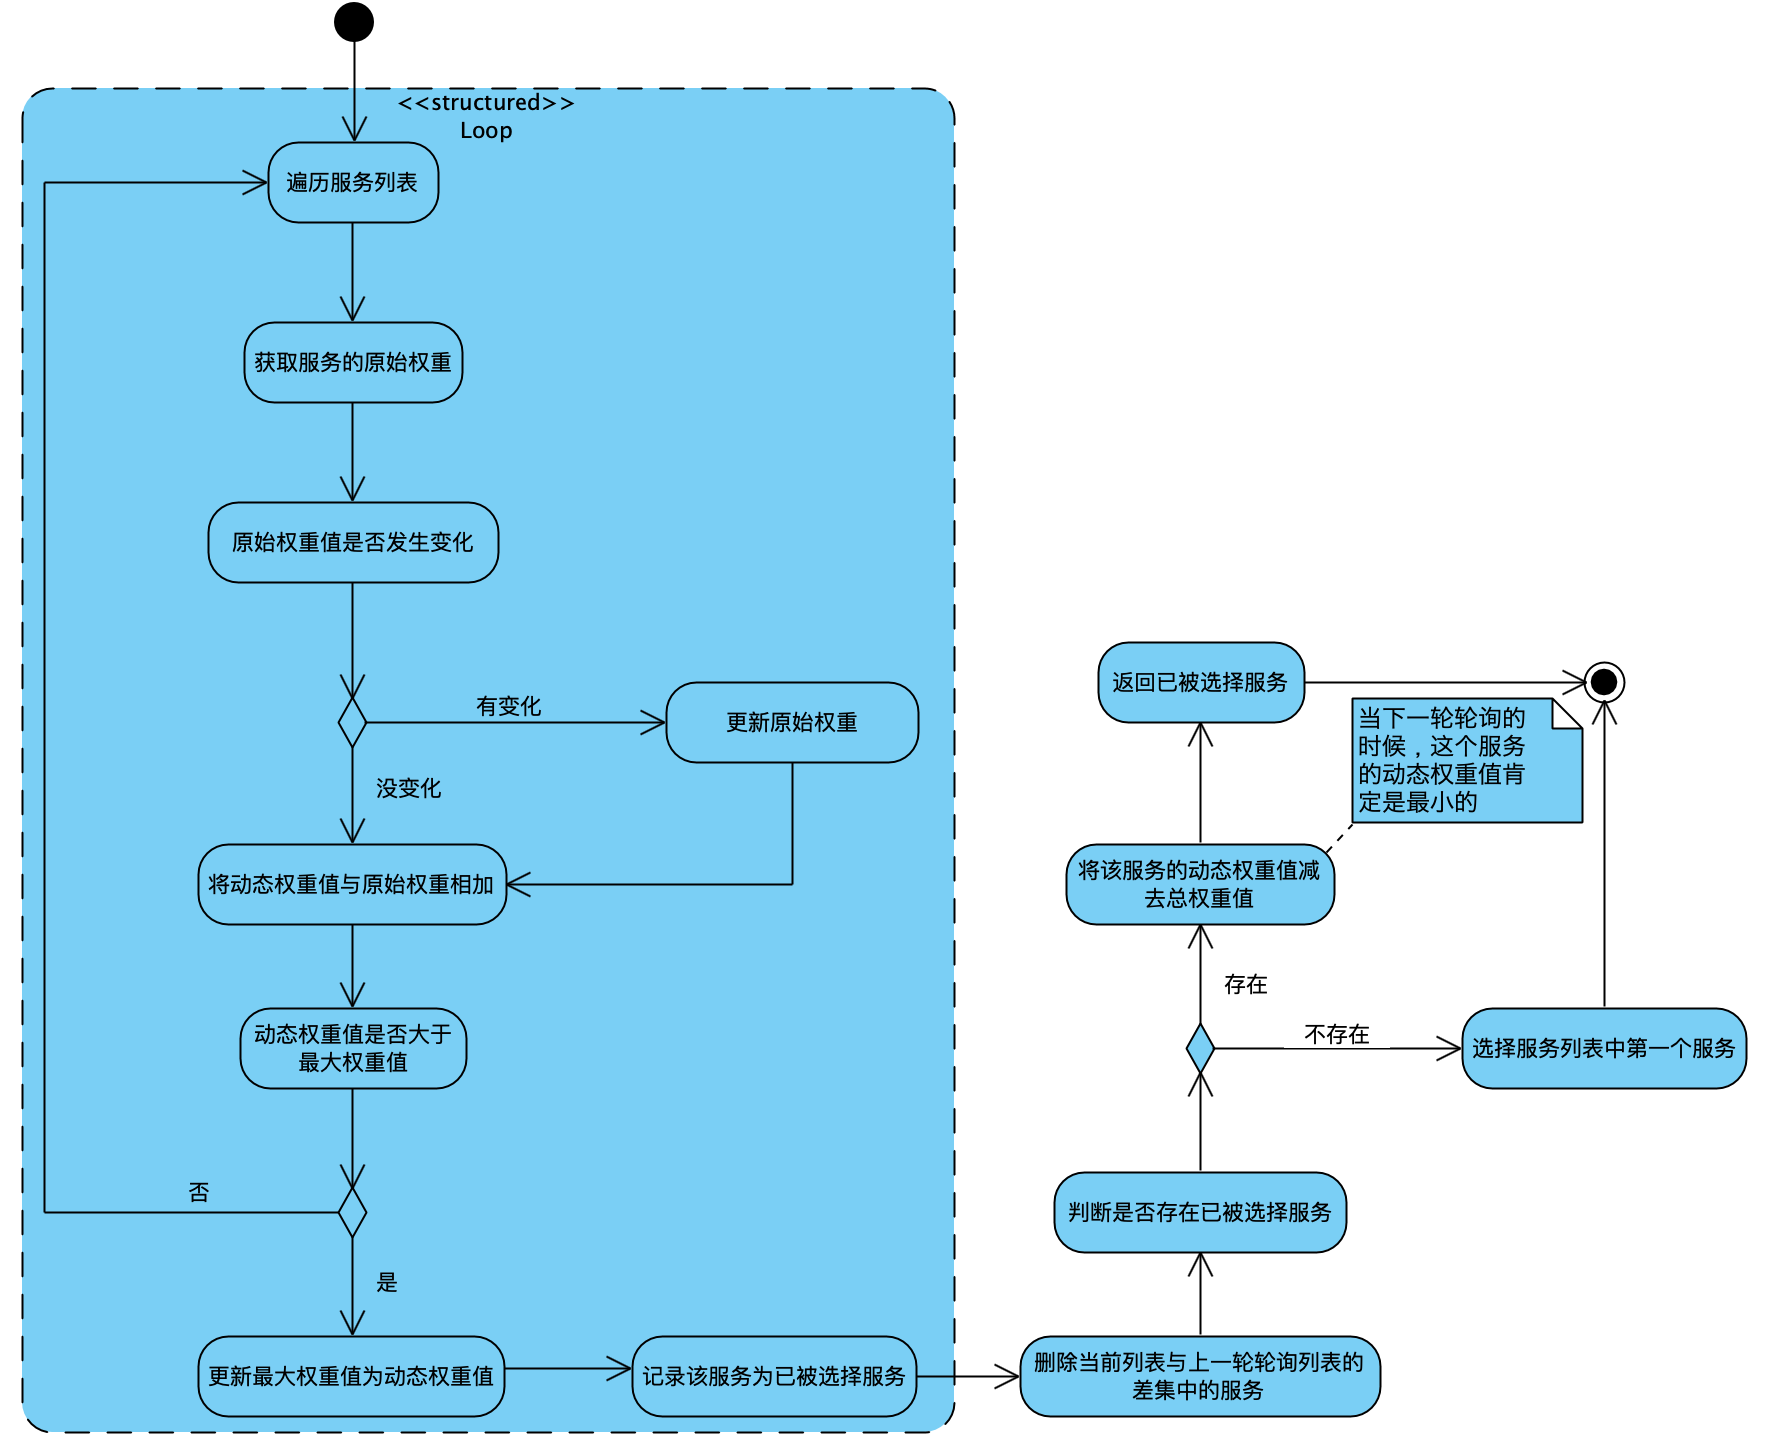
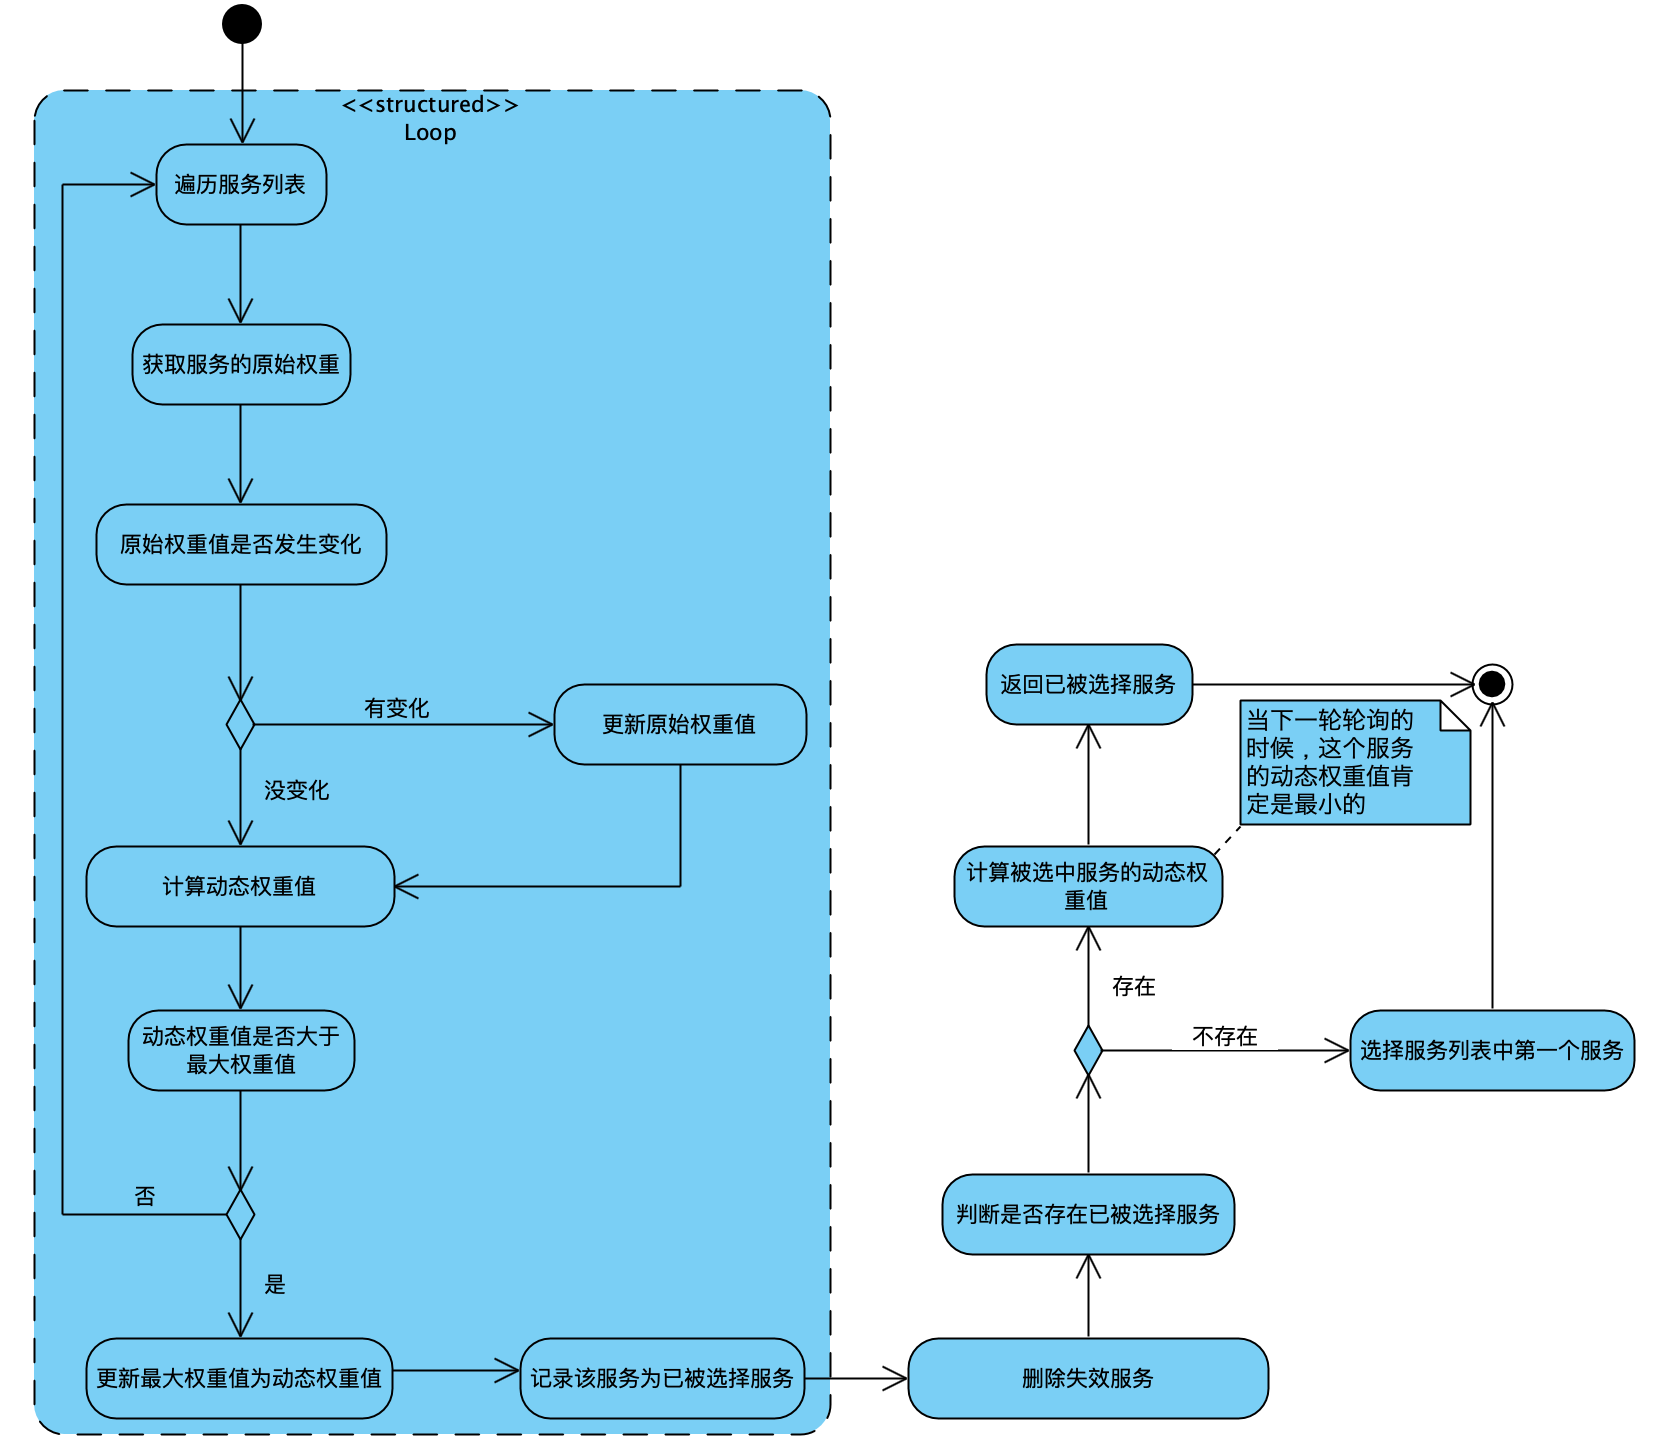
更新轮询负载均衡笔记

diff --git a/dubbo/Dubbo源码研究之负载均衡.md b/dubbo/Dubbo源码研究之负载均衡.md
@@ -4,7 +4,7 @@ Dubbo中负载均衡的类图结构如下：
 
 ![](../pictures/Dubbo_负载均衡类图.png)
 
-目前最新版本（2.7.x）中的`MockLoadBalance`还没有具体实现，我们主要关注`AbstractLoanBalance`以及其实现类就可以
+目前最新版本（2.7.x）中的`MockLoadBalance`是一个空实现，我们主要关注`AbstractLoanBalance`以及其实现类就可以
 
 **问题：** 如果对于`FailoverClusterInvoker`，在第一次失败后，重新选择第二个可调用服务，在负载均衡中计算权重的时候，如果因为临时修改权重导致负载均衡又选择了第一次调用失败的服务，这个时候怎么办？
 
@@ -42,29 +42,61 @@ i、返回取得服务
 
 Dubbo中的轮询负载均衡策略，实际上也是加权轮询负载均衡，Dubbo根据每个服务的权重值来控制轮询的先后顺序,如果权重值相等，则从列表中的第一个元素开始轮询，如果权重值不等，则从权重值最大的元素开始轮询。Dubbo的轮询算法中有几个变量：
 
-- 原始权重值 $ot$（Dubbo控制台设置的初始值）
+- 原始权重值 $ot$：Dubbo控制台设置的初始值
 
-- 动态权重值 $DT$（轮询算法中动态计算的权重值），该值的计算方法：如果当前服务在该轮轮询中没有被选中，则该值在原值的基础上加原始权重值，其如果被选中了，那么这个服务的动态权重值等于原值减去总权重值，动态权重值是决定该服务最终被选择的依据，计算公式如下：
+- 动态权重值 $dt$：轮询算法中动态变化的权重值，该值的计算方法：如果当前服务在该轮轮询中没有被选中，则该值在原值的基础上加原始权重值，其如果被选中了，那么这个服务的动态权重值等于原值减去总权重值，动态权重值是决定该服务最终被选择的依据，计算公式如下：
 
-  							$$DT[r] =\begin{cases} DT[r-1] + ot,未被选中\\ DT[r-1]-st,被选中\end{cases}$$
+  							$$dt_r =\begin{cases} dt_{r-1} + ot,未被选中\\ dt_{r-1} + ot - st,被选中\end{cases}$$
 
-  其中，$DT[r-1]$ 表示上一轮轮询后的动态权重值
+  其中，$dt_{r-1}$ 表示上一轮轮询后的动态权重值
 
-  动态权重值$DT$的区间范围为：
+  动态权重值$dt$的区间范围为：
 
-                                                          $DT \leq |st| $
+                                                          $dt \leq |st| $
 
 - 总权重值 $st$：服务列表中所有服务的原始权重值的总，计算公式如下：
 
   							$st = \sum_{i=0}^{n-1} ot[i]$
 
-- 当前最大权重值，这个值实际上就是服务列表中最大的动态权重值
+- 当前最大权重值：这个值实际上就是服务列表中最大的动态权重值
 
-- 已被选择的服务，最终的服务就是这个服务，实际上，这个值在轮询的过程中是发生变化的，该值是所有服务的动态权重值最大的那个服务
+- 已被选择的服务：最终的服务就是这个服务，实际上，这个值在轮询的过程中是发生变化的，该值是所有服务的动态权重值最大的那个服务
 
 轮询负载均衡的处理逻辑如下图所示：![](../pictures/Dubbo_轮询负载均衡流程图.png)
 
 **描述：**
 
+a、遍历服务列表
 
+b、获取服务的原始权重值
+
+c、将该服务当前的原始权重值与上一轮该服务的原始权重值做比较，如果不同，说明权重发生变化，则需要更新原始权重值
+
+d、计算动态权重值——原始权重值+上一轮轮询后的动态权重值（如果是第一轮，该值为0）
+
+e、比较动态权重值与最大权重值(该值的初始值为-2^63^)，若动态权重值小于等于最大权重值，则直接跳至步骤f，否则，更新最大权重值为动态权重值，记录该服务为已被选择服务
+
+f、将原始权重值累加
+
+g、循环执行b-f，直至轮询完整个服务列表
+
+h、删除失效服务：比对当前服务列表与上一次轮询后的服务列表，比对出差异服务，然后再计算差异服务最后一次活跃至当前的时间间隔，如果超过60s，则将该服务从服务列表中清除掉（注意，该服务列表是供下次轮询使用的列表）
+
+i、如果有被选中服务，则将该服务的动态权重减去总的原始权重，这时，这个服务的动态权重肯定是服务列表中最小的，那么下次轮询时，该服务被选中的概率将最小
+
+j、如果有被选中服务，则返回选中服务，否则，返回服务列表中的第一个元素
+
+**为什么要将加权轮询算法做的如此复杂？**
+
+加权轮询需要考虑几个方面：
+
+- 在一组具有多个服务的列表中，如何保证本次被选举到的服务，在下一次轮询的过程中，不再被选到？
+
+  Dubbo中使用了动态权重值解决了这个问题
+
+- 如何解决轮询过程中服务列表发生变化的问题，这里也用到了动态权重值，来保证新加入的服务能够在以后的轮询过程中被选中
+
+- 如何解决轮询过程中服务的权重发生变化的问题
+
+实际上，Dubbo将上一轮轮询的相关参数做了缓存，在本次轮询时，会与缓存数据对比较，来解决服务列表和权重发生变化的问题
 
